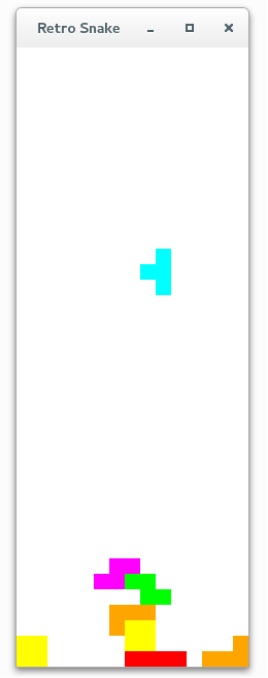
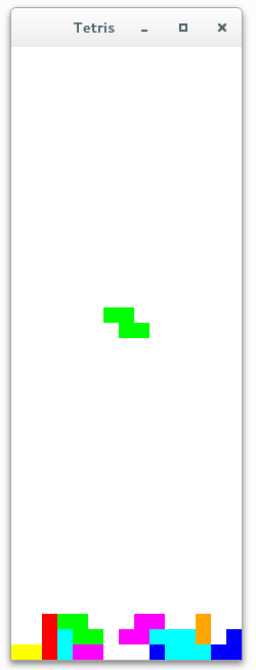
Update Readme.md

diff --git a/alphatetris/utils/data.py b/alphatetris/utils/data.py
@@ -1,0 +1,35 @@
+import numpy as np 
+import h5py
+import time
+import datetime
+
+class Data:
+    def __init__(self):
+        self.areas = list()
+        self.steps = 0
+        self.score = 0
+    
+    def add(self,area):
+        self.areas.append(area)
+        self.steps += 1
+
+    def setscore(self,score)：
+        self.score = score
+
+    def load(self,filename):
+        with h5py.File(filename,'r') as inputfile:
+            self.steps = inputfile['steps'][...]
+            self.score = inputfile['score'][...]
+            areas = inputfile['areas']
+            for i in range(self.steps):
+                self.areas = areas['{step}'.format(step=i)][...]
+
+    def save(self,filename=None):
+        if filename is None:
+            filename = '{date}.h5'.format(date=datetime.datetime.now())
+        with h5py.File(filename,'w') as outputfile:
+            outputfile.create_dataset('steps',data=self.steps)
+            outputfile.create_dataset('score',data=self.score)
+            areas = outputfile.create_group('areas')
+            for i in range(self.steps):
+                areas.create_dataset('{step}'.format(step=i),data=self.areas[i])

diff --git a/alphatetris/tetris.py b/alphatetris/tetris.py
@@ -11,11 +11,10 @@ class Tetris:
         self.player = player.Human()
         self.ui = None
 
-    def start(self):
+    def start(self,sizeunit = 15):
         self.gameengine = gameengine.GameEngine(Nx=self.Nx,Ny=self.Ny,player=self.player,timeperiod=0.5)
         self.gameengine.start()
 
-        sizeunit = 15
         area = self.gameengine.getarea()
         self.ui = ui.UI(pressaction=self.player.setdirection,area=area,sizeunit=sizeunit)
         self.ui.start()

diff --git a/alphatetris/gameengine.py b/alphatetris/gameengine.py
@@ -46,6 +46,11 @@ class GameEngine:
             position = (int(self.Nx/2),0)
             self.block = block.Block(position=position,player=self.player)
 
+        # To cancel one line
+        for j in range(self.Ny):
+            if np.sum(self.prearea[:,j]!=0) == self.Nx:
+                self.prearea[:,1:j+1] = self.prearea[:,0:j]
+
     def tocontinue(self):
         for i in range(self.Nx):
             if self.prearea[i,0] != 0:

diff --git a/alphatetris/ui/nativeUI.py b/alphatetris/ui/nativeUI.py
@@ -40,7 +40,7 @@ class nativeUI(QWidget):
         self.setGeometry((screen.width()-size.width())/2, 
                         (screen.height()-size.height())/2,
                         Nx*self.sizeunit, Ny*self.sizeunit)
-        self.setWindowTitle("Retro Snake")
+        self.setWindowTitle("Tetris")
 
         # set Background color
         palette =  QPalette()

diff --git a/alphatetris/block.py b/alphatetris/block.py
@@ -92,7 +92,8 @@ class Block:
 
     def __rotate(self,area):
         (Nx,Ny) = area.shape
-        x0,y0 = self.position
+        #x0,y0 = self.position
+        x0,y0 = self.body[1]
 
         # TODO specification for every shape
         if True:

diff --git a/alphatetris/alphatetris.py b/alphatetris/alphatetris.py
@@ -1,0 +1,8 @@
+import numpy as np 
+
+class AlphaTetris:
+    def __init__(self):
+
+    def train(self):
+
+    def reinforcement(self):
